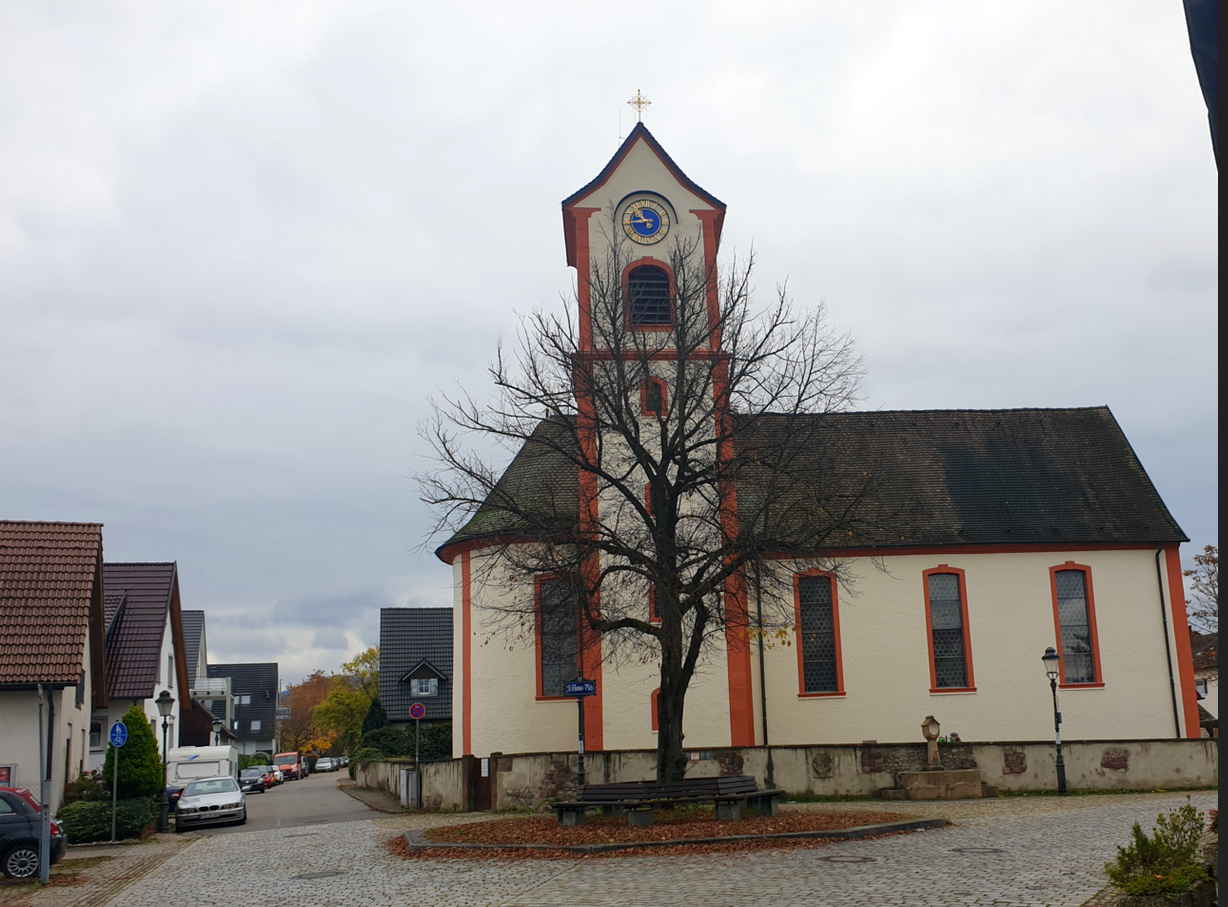
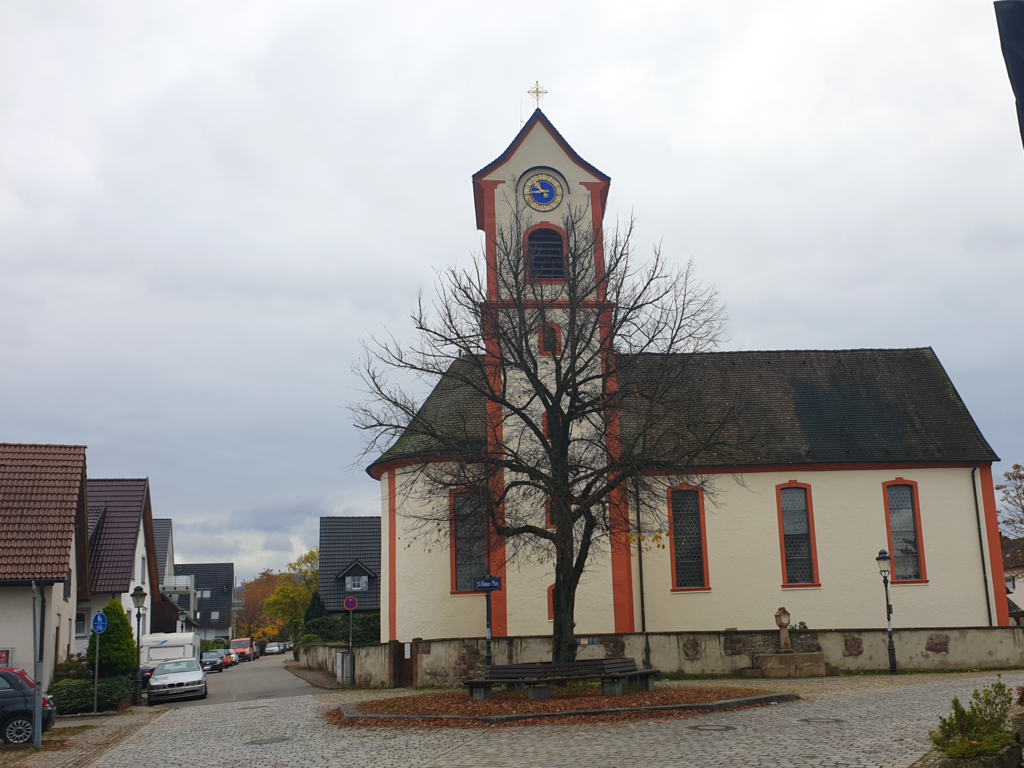
exchanged licensed pictures with CC and added sources. Gallery is now more responsiv.

Changed region(s): [[0.0, 0.0, 1.0, 1.0]]

diff --git a/project/html/galerie.html b/project/html/galerie.html
@@ -27,24 +27,24 @@
       <div>
         <p>Betzenhausen von oben</p>
         <div id="gallery" data-featherlight-gallery data-featherlight-filter="a">
-          <a href="../images/Betzenhausen_maps_small.png"><img src="../images/Betzenhausen_maps_small.png" alt="Satellitenbild von Google Maps"></a>
-          <a href="../images/oben2.jpg"><img src="../images/oben2.jpg" alt="Wohngebiet Betzenhausen"></a>
+          <a href="../images/Betzenhausen_maps_small.png"><img src="../images/Betzenhausen_maps_small.png" alt="Satellitenbild von Betzenhausen. [Quelle: Maps Data: Google,©2024 CNES / Astrium, Maxar Technologies. Lizenz: https://about.google/brand-resource-center/products-and-services/geo-guidelines/#required-attribution]"></a>
+          <a href="../images/oben.jpg"><img src="../images/oben.jpg" alt="Wohngebiet Betzenhausen [Taxiarchos228, CC BY 3.0, keine Veränderungen. Quelle: https://commons.wikimedia.org/w/index.php?curid=22551295. Lizenz: https://creativecommons.org/licenses/by/3.0/deed.en]"></a>
         </div>
       </div>
       <div>
         <p>Der Stadtsee</p>
         <div id="gallery" data-featherlight-gallery data-featherlight-filter="a">
-          <a href="../images/oben1.jpg"><img src="../images/oben1.jpg" alt="Ansicht von oben"></a>
-          <a href="../images/Stadtsee2.jpg"><img src="../images/Stadtsee2.jpg" alt="Der See im Sommer"></a>
-          <a href="../images/Stadtsee1.jpg"><img src="../images/Stadtsee1.jpg" alt=""></a>
+          <a href="../images/Flückigersee.jpg"><img src="../images/Flückigersee.jpg" alt="Ansicht von oben. [Wolkenkratzer, CC BY-SA 3.0, Bild verkleinert. Quelle: https://commons.wikimedia.org/w/index.php?curid=28963188. Lizenz: https://creativecommons.org/licenses/by-sa/3.0/deed.en]"></a>
+          <a href="../images/Stadtsee2.jpg"><img src="../images/Stadtsee2.jpg" alt="Der See im Sommer. [ni, Adobe Standardlizenz, keine Veränderungen. Quelle: https://stock.adobe.com/de/images/park-with-a-lake-in-freiburg-seepark-betzenhausen/323696180?prev_url=detail. Lizenz: https://stock.adobe.com/de/license-terms#standardLicenses]"></a>
+          <a href="../images/Forsthaus_Seepark.jpg"><img src="../images/Forsthaus_Seepark.jpg" alt="Forsthaus Seepark. [Jörgens.mi, CC BY-SA 3.0, Bild abgeschnitten. Quelle: https://commons.wikimedia.org/w/index.php?curid=52350666. Lizenz: https://creativecommons.org/licenses/by-sa/3.0/]"></a>
         </div>
       </div>
       <div>
         <p>Sehenswürdigkeiten</p>
         <div class="labeled_gallery" id="gallery" data-featherlight-gallery data-featherlight-filter="a">
-          <a href="../images/Kirche.png"><img src="../images/Kirche.png" alt="Kirche St. Thomas, nach Renovation 2015"></a>
-          <a href="../images/Storchennest.png"><img src="../images/Storchennest.png" alt="Storchenkamera"></a>
-          <a href="../images/Gaskugel.png"><img src="../images/Gaskugel.png" alt="Gaskugel Freiburg-Betzenhausen, Ansicht von Südwest"></a>
+          <a href="../images/Kirche2.jpg"><img src="../images/Kirche2.jpg" alt="Kirche St. Albert. [Cmcmcm1, CC BY-SA 4.0, keine Veränderungen. Quelle: https://commons.wikimedia.org/w/index.php?curid=133626591. Lizenz: https://creativecommons.org/licenses/by-sa/4.0/deed.en]"></a>
+          <a href="../images/Kirche.png"><img src="../images/Kirche.png" alt="Kirche St. Thomas, nach Renovation 2015. [Daniel Veyhelmann, CC BY-SA 4.0, keine Veränderungen. Quelle: https://commons.wikimedia.org/wiki/File:St._Thomas_Kirche.png. Lizenz: https://creativecommons.org/licenses/by-sa/4.0/deed.en]"></a>
+          <a href="../images/Gaskugel.png"><img src="../images/Gaskugel.png" alt="Gaskugel Freiburg-Betzenhausen, Ansicht von Südwest. [Andreas Schwarzkopf, CC BY-SA 4.0, keine Veränderungen. Quelle: https://commons.wikimedia.org/w/index.php?curid=80126438. Lizenz: https://creativecommons.org/licenses/by-sa/4.0/deed.de]"></a>
         </div>
       </div>
     </section>

diff --git a/project/html/sources.html b/project/html/sources.html
@@ -31,19 +31,21 @@
           <a href="https://de.wikipedia.org/wiki/Betzenhausen" target="_blank">de.wikipedia.org/wiki/Betzenhausen</a>
         </p>
       </div>
+      <!--
       <div>
         <a href="galerie.html" id="navButton"><i class="fas fa-images"></i> Gallerie</a>
         <p>
           <a href="https://www.google.com/maps/place/Betzenhausen,+Freiburg+im+Breisgau-West/@48.0073129,7.8063517,15z/data=!3m1!4b1!4m6!3m5!1s0x47911b0ea10193ab:0x7e3daf5c2cb2833!8m2!3d48.0060986!4d7.8134613!16s%2Fg%2F1218l3mp?entry=ttu" target="_blank">www.google.com/maps</a>
           <a href="https://www.webbaviation.de/galerie/picture.php?/3010" target="_blank">www.webbaviation.de</a>
           <a href="https://www.pictrs.com/suedwest-luftbild/img/bgmp1i?back_url=https%3A%2F%2Fwww.pictrs.com%2Fsuedwest-luftbild%2Fsearch%3Fhashtag%3DFreiburg%26l%3Den%26locale%3Den&l=it" target="_blank">www.pictrs.com</a>
-          <a href="https://stock.adobe.com/de/search?k=betzenhausen&asset_id=323696180" target="_blank">stock.adobe.com</a>
+          <a href="https://stock.adobe.com/de/images/park-with-a-lake-in-freiburg-seepark-betzenhausen/323696180?prev_url=detail" target="_blank">stock.adobe.com</a>
           <a href="https://www.baden.fm/nachrichten/vermehrte-diebstaehle-im-seepark-freiburg-1531254/" target="_blank">www.baden.fm</a>
         <a href="https://commons.wikimedia.org/wiki/File:St._Thomas_Kirche.png#mw-jump-to-license" target="_blank">commons.wikimedia.org</a>
         <a href="https://betzenhausen-bischofslinde.de/storchenkamera-online/" target="_blank">betzenhausen-bischofslinde.de</a> 
         <a href="https://de.m.wikipedia.org/wiki/Datei:Gaskugel_Freiburg-Betzenhausen,_Ansicht_von_S%C3%BCdwest.jpg" target="_blank">de.m.wikipedia.org</a>
         </p>
       </div>
+    -->
       <div>
         <a href="uebernachtung.html" id="navButton"><i class="fas fa-bed"></i> Übernachtungen</a>
         <p>
@@ -51,6 +53,18 @@
           <a href="https://www.ferienwohnung-freiburg-am-seepark.de/de/" target="_blank">www.ferienwohnung-freiburg-am-seepark.de/</a>
           <a href="https://www.ferienwohnung-seepark.de/" target="_blank">www.ferienwohnung-seepark.de/</a>
           <a href="https://www.hotel-freiburg-baeren.de/" target="_blank">www.hotel-freiburg-baeren.de/</a>
+        </p>
+      </div>
+      <div>
+        <h1>Favicon:</h1>
+        <p>
+          Andreas Schwarzkopf, CC BY-SA 3.0, in .ico konvertiert. Quelle: <a href="https://commons.wikimedia.org/wiki/File:Betzenhausen_Wappen.jpg">https://commons.wikimedia.org/wiki/File:Betzenhausen_Wappen.jpg</a>. Lizenz: <a href="https://creativecommons.org/licenses/by-sa/3.0/deed.en">https://creativecommons.org/licenses/by-sa/3.0/deed.en</a>
+        </p>
+      </div>
+      <div>
+        <h1>Stadtwappen:</h1>
+        <p>
+          Autor/-in unbekannt, gemeinfrei, keine Veränderung. Quelle: <a href="https://de.m.wikipedia.org/wiki/Datei:DEU_Freiburg_im_Breisgau_COA.svg">https://de.m.wikipedia.org/wiki/Datei:DEU_Freiburg_im_Breisgau_COA.svg</a>
         </p>
       </div>
     </nav>

diff --git a/project/css/sources.css b/project/css/sources.css
@@ -5,6 +5,7 @@ body>nav {
 
 nav>div {
     display: flex;
+    line-height: 5vh;
 }
 
 div>p>a {
@@ -17,4 +18,8 @@ div>p>a {
 div>p>a:hover {
     background-color: rgb(174, 174, 174);
     border: rgb(205, 205, 205) 5px solid;
+}
+
+div>h1 {
+    margin-top: 15px;
 }

diff --git a/project/css/galerie.css b/project/css/galerie.css
@@ -34,3 +34,13 @@ section>div>p {
 .featherlight-inner, .featherlight-next, .featherlight-previous {
     margin-top: -18px;
 }
+
+.featherlight-content {
+    max-width: 50%;
+}
+
+@media (max-width: 768px) {
+    #gallery {
+        flex-wrap: wrap;
+    }
+}
